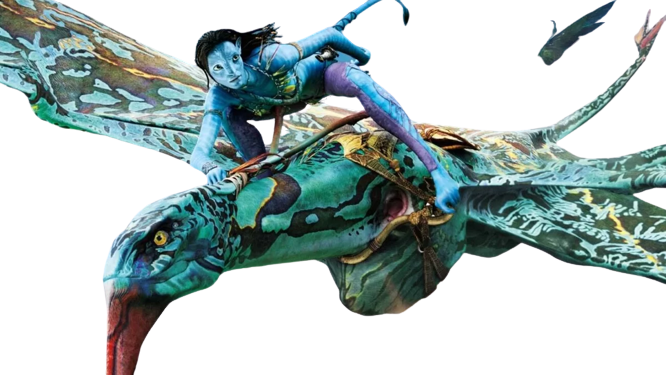
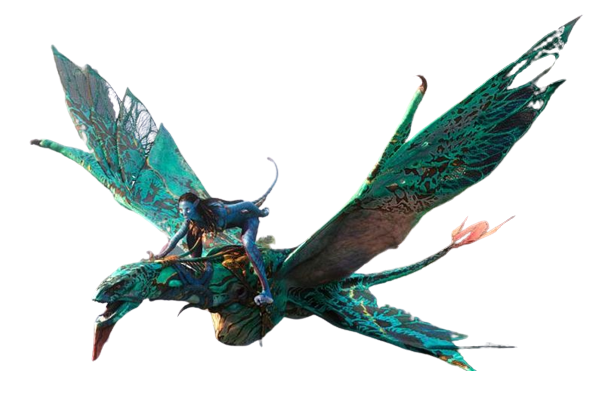
alteração

diff --git a/index.css b/index.css
@@ -1,3 +1,13 @@
+/* #letreiro{
+  position: absolute;
+  width: 300px;
+  height: 100px;
+  z-index: 999;
+  top: 620px;
+  left: 580px;
+  font-size: 60px;
+} */
+
 #logoAvatar {
   position: absolute;
   width: 600px;
@@ -13,11 +23,11 @@
 
 #passaro2 {
   position: absolute;
-  width: 150px;
-  height: 150px;
-  z-index: 998;
-  top: 200px;
-  left: -160px;
+  width: 230px;
+  height: 230px;
+  z-index: 999;
+  top: 180px;
+  left: -300px;
   animation: monsterMovement2 5s;
   animation-iteration-count: 1;
   animation-fill-mode: forwards;
@@ -26,10 +36,10 @@
 
 #passaro {
   position: absolute;
-  width: 150px;
-  height: 150px;
+  width: 230px;
+  height: 230px;
   z-index: 998;
-  top: -160px;
+  top: -250px;
   right: 50px;
   animation: monsterMovement 10s;
   animation-iteration-count: 1;
@@ -76,7 +86,7 @@
 @keyframes monsterMovement {
   0% {
     right: 50px;
-    top: -160px;
+    top: -250px;
     transform: rotate(60deg);
   }
 
@@ -152,23 +162,23 @@
 
 @keyframes monsterMovement2 {
   0% {
-    top: 200px;
-    left: -160px;
+    top: 180px;
+    left: -300px;
   }
   33% {
-    top: 100px;
-    left: 160px;
+    top: 200px;
+    left: 250px;
     transform: rotate(60deg);
   }
 
   66% {
-   top: 280px;
+   top: 230px;
    left: 320px;
    transform: rotate(60deg);
   }
 
   100% {
-   top: 360px;
+   top: 320px;
    left: 500px;
   }
 }

diff --git a/index.html b/index.html
@@ -13,6 +13,7 @@
     <img id="casal" src="./casal_avatar.png" alt="casal">
     <img id="lua" src="./lua-cheia3.png" alt="lua">
     <img id="logoAvatar" src="./Logo_Avatar_3.png" alt="logoAvatar" srcset="">
-    <img id="passaro2" src="./avatarvoando2.png" alt="avatarInvertido">
+    <img id="passaro2" src="./avatarvoando-invertido.png" alt="avatarInvertido">
+    <!-- <p id="letreiro">BREVE NOS CINEMAS</p> -->
 </body>
 </html>
